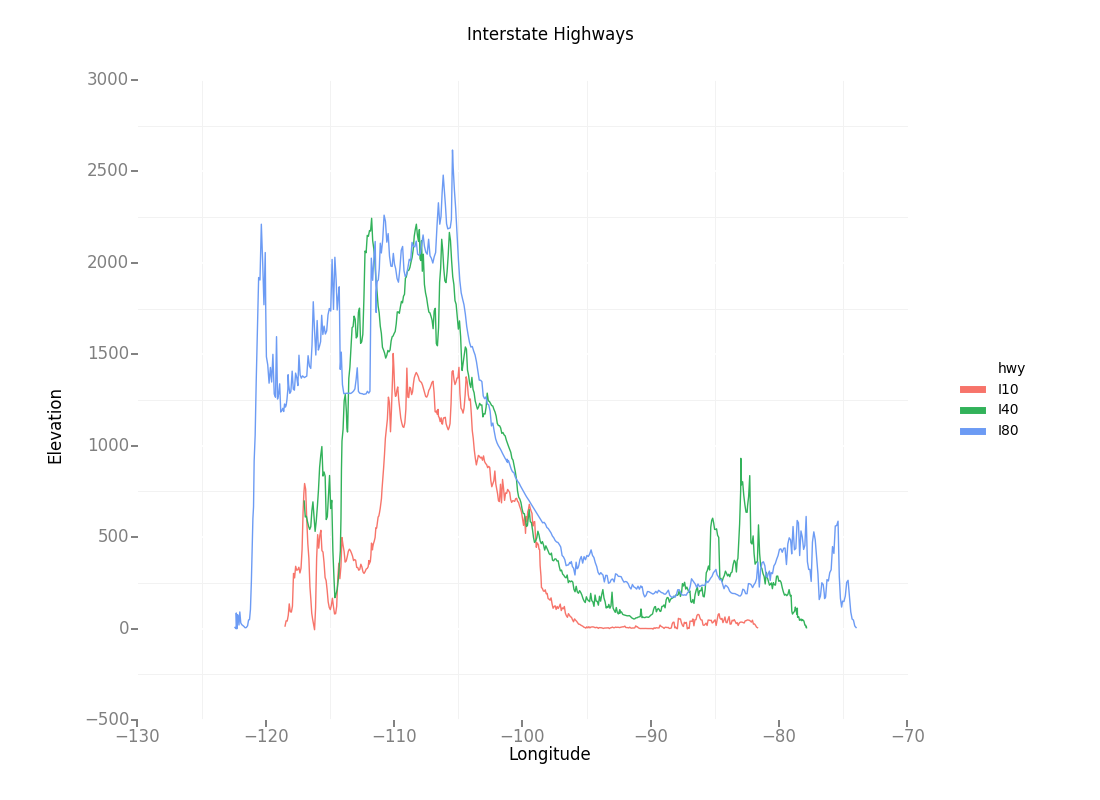
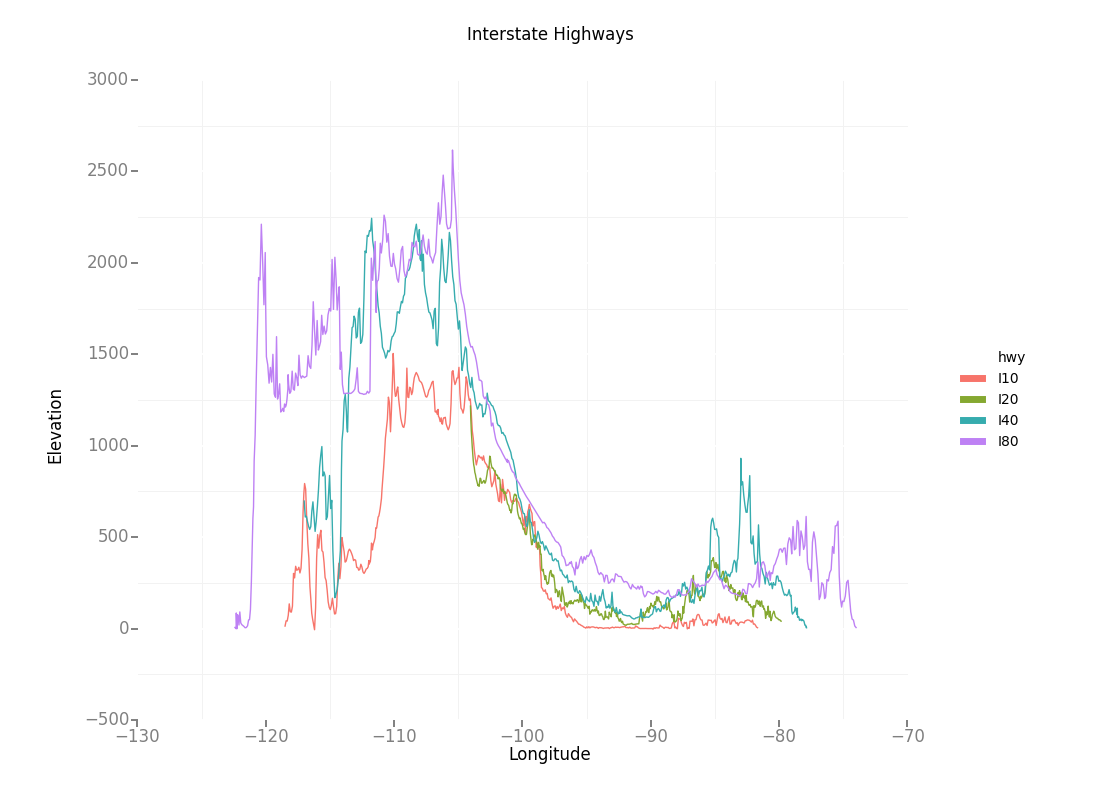
I-20 add

diff --git a/README.md b/README.md
@@ -38,7 +38,7 @@ And so this project was born!
 
 ## Current progress
 
-* I-10, I-40, and I-80 have been completed! The plot for them is below.
+* I-10, I-20, I-40, and I-80 have been completed! The plot for them is below.
 * `ElevationHighways.py`
     * Gets route KML from Wikipedia
     * Uses KML to get Google Maps directions, and the included polyline
